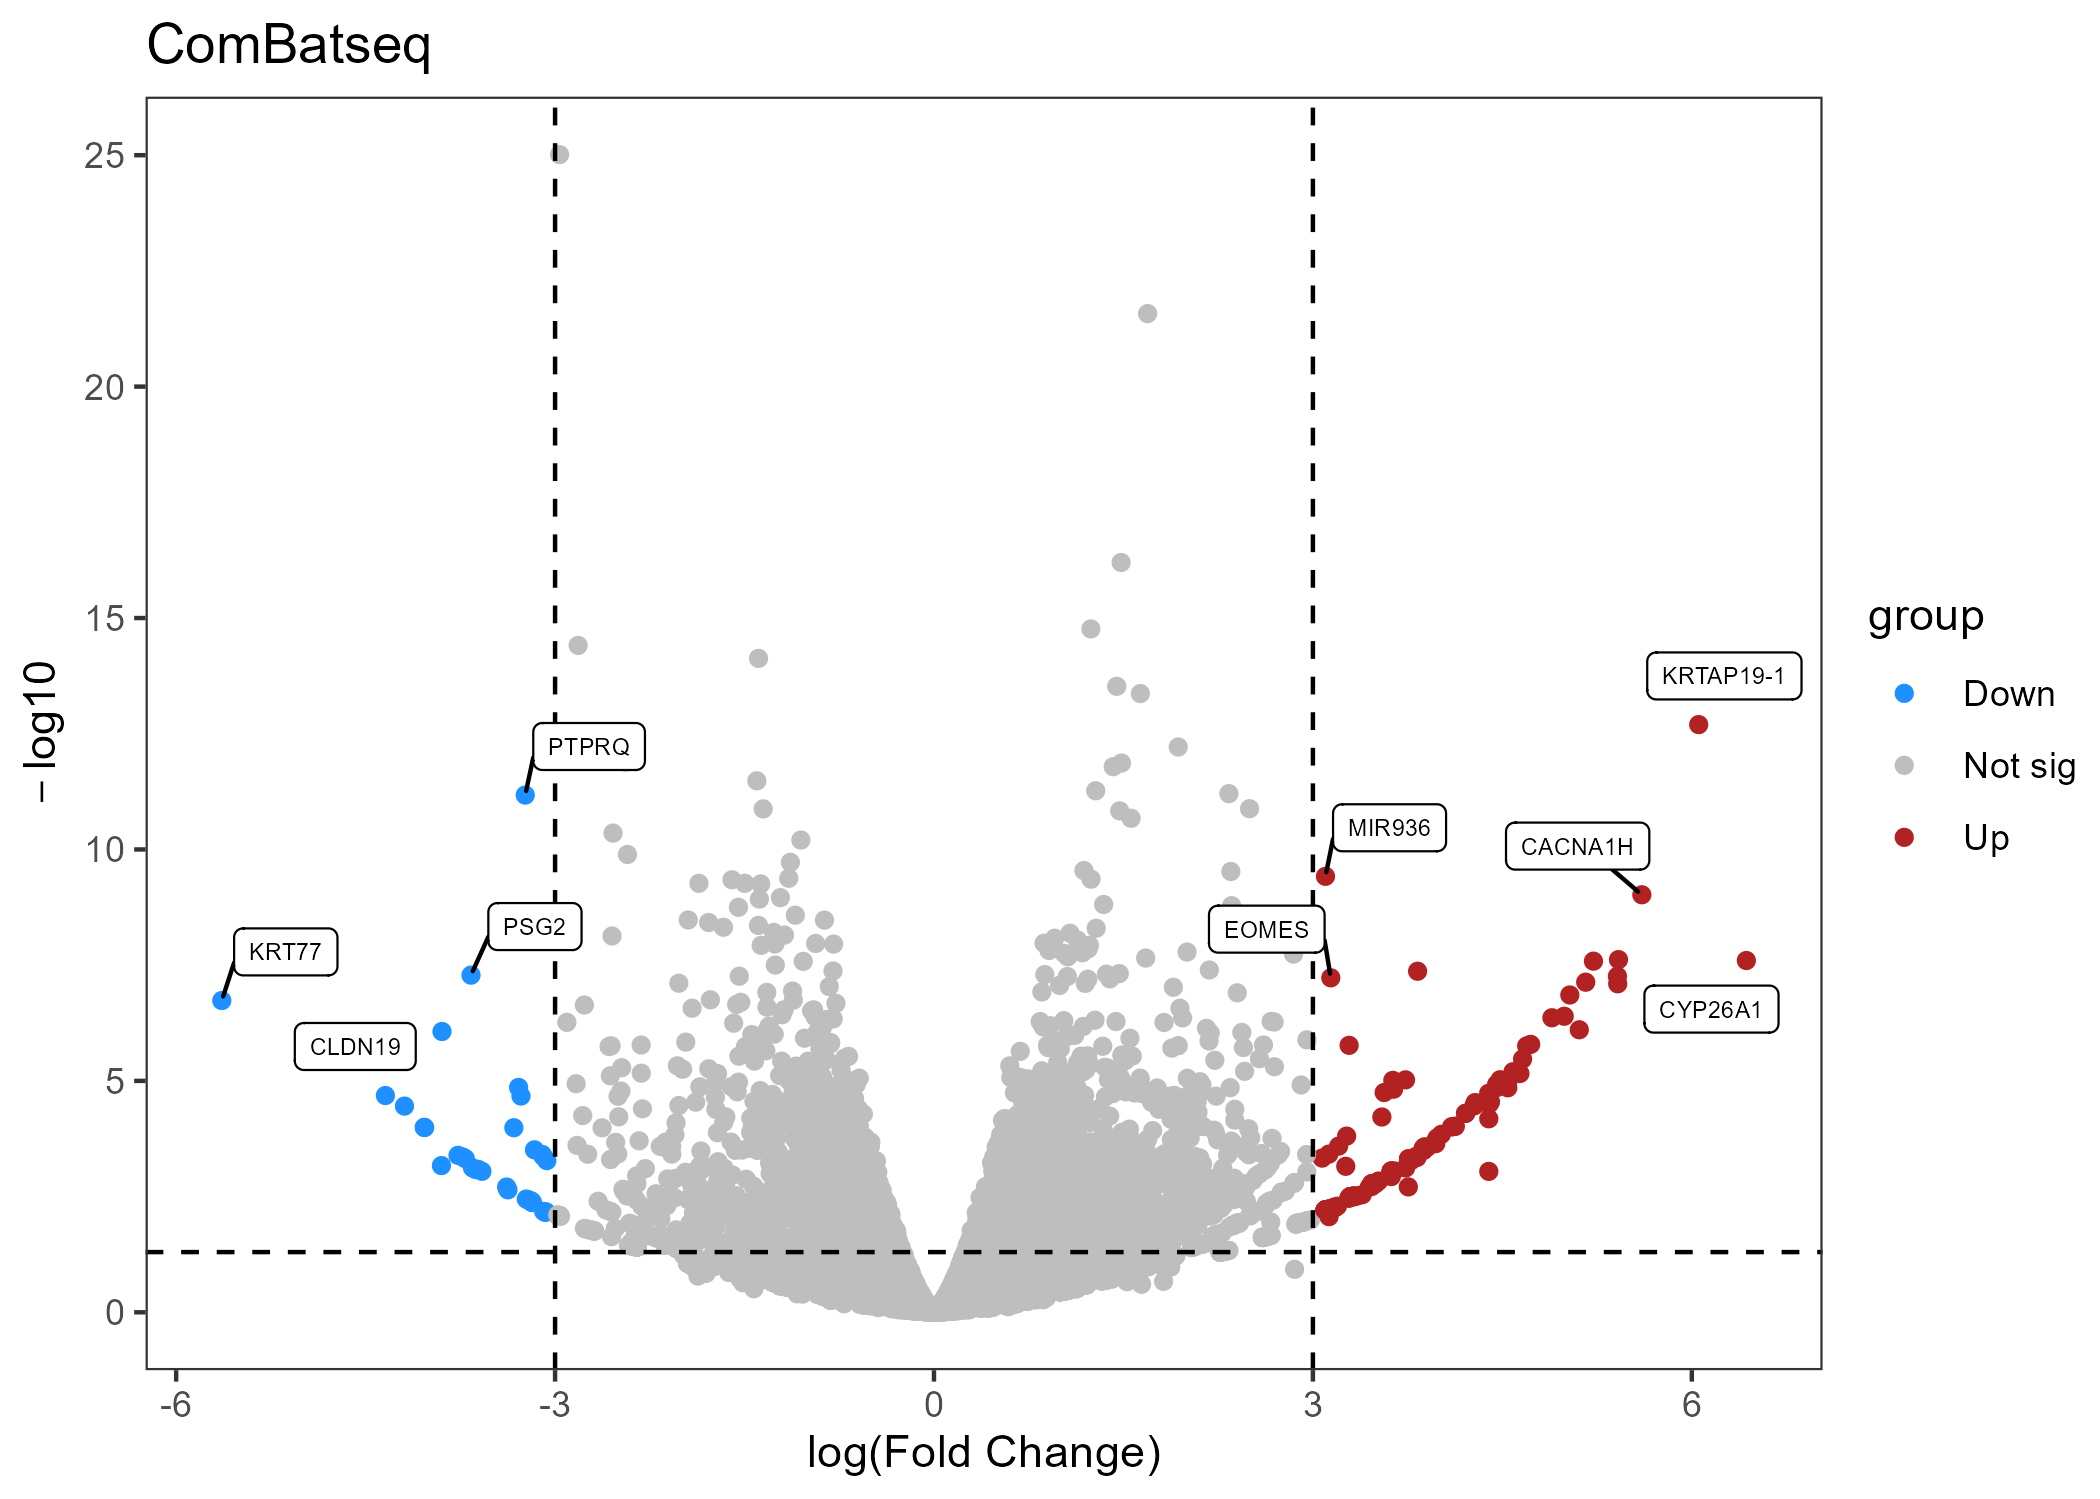
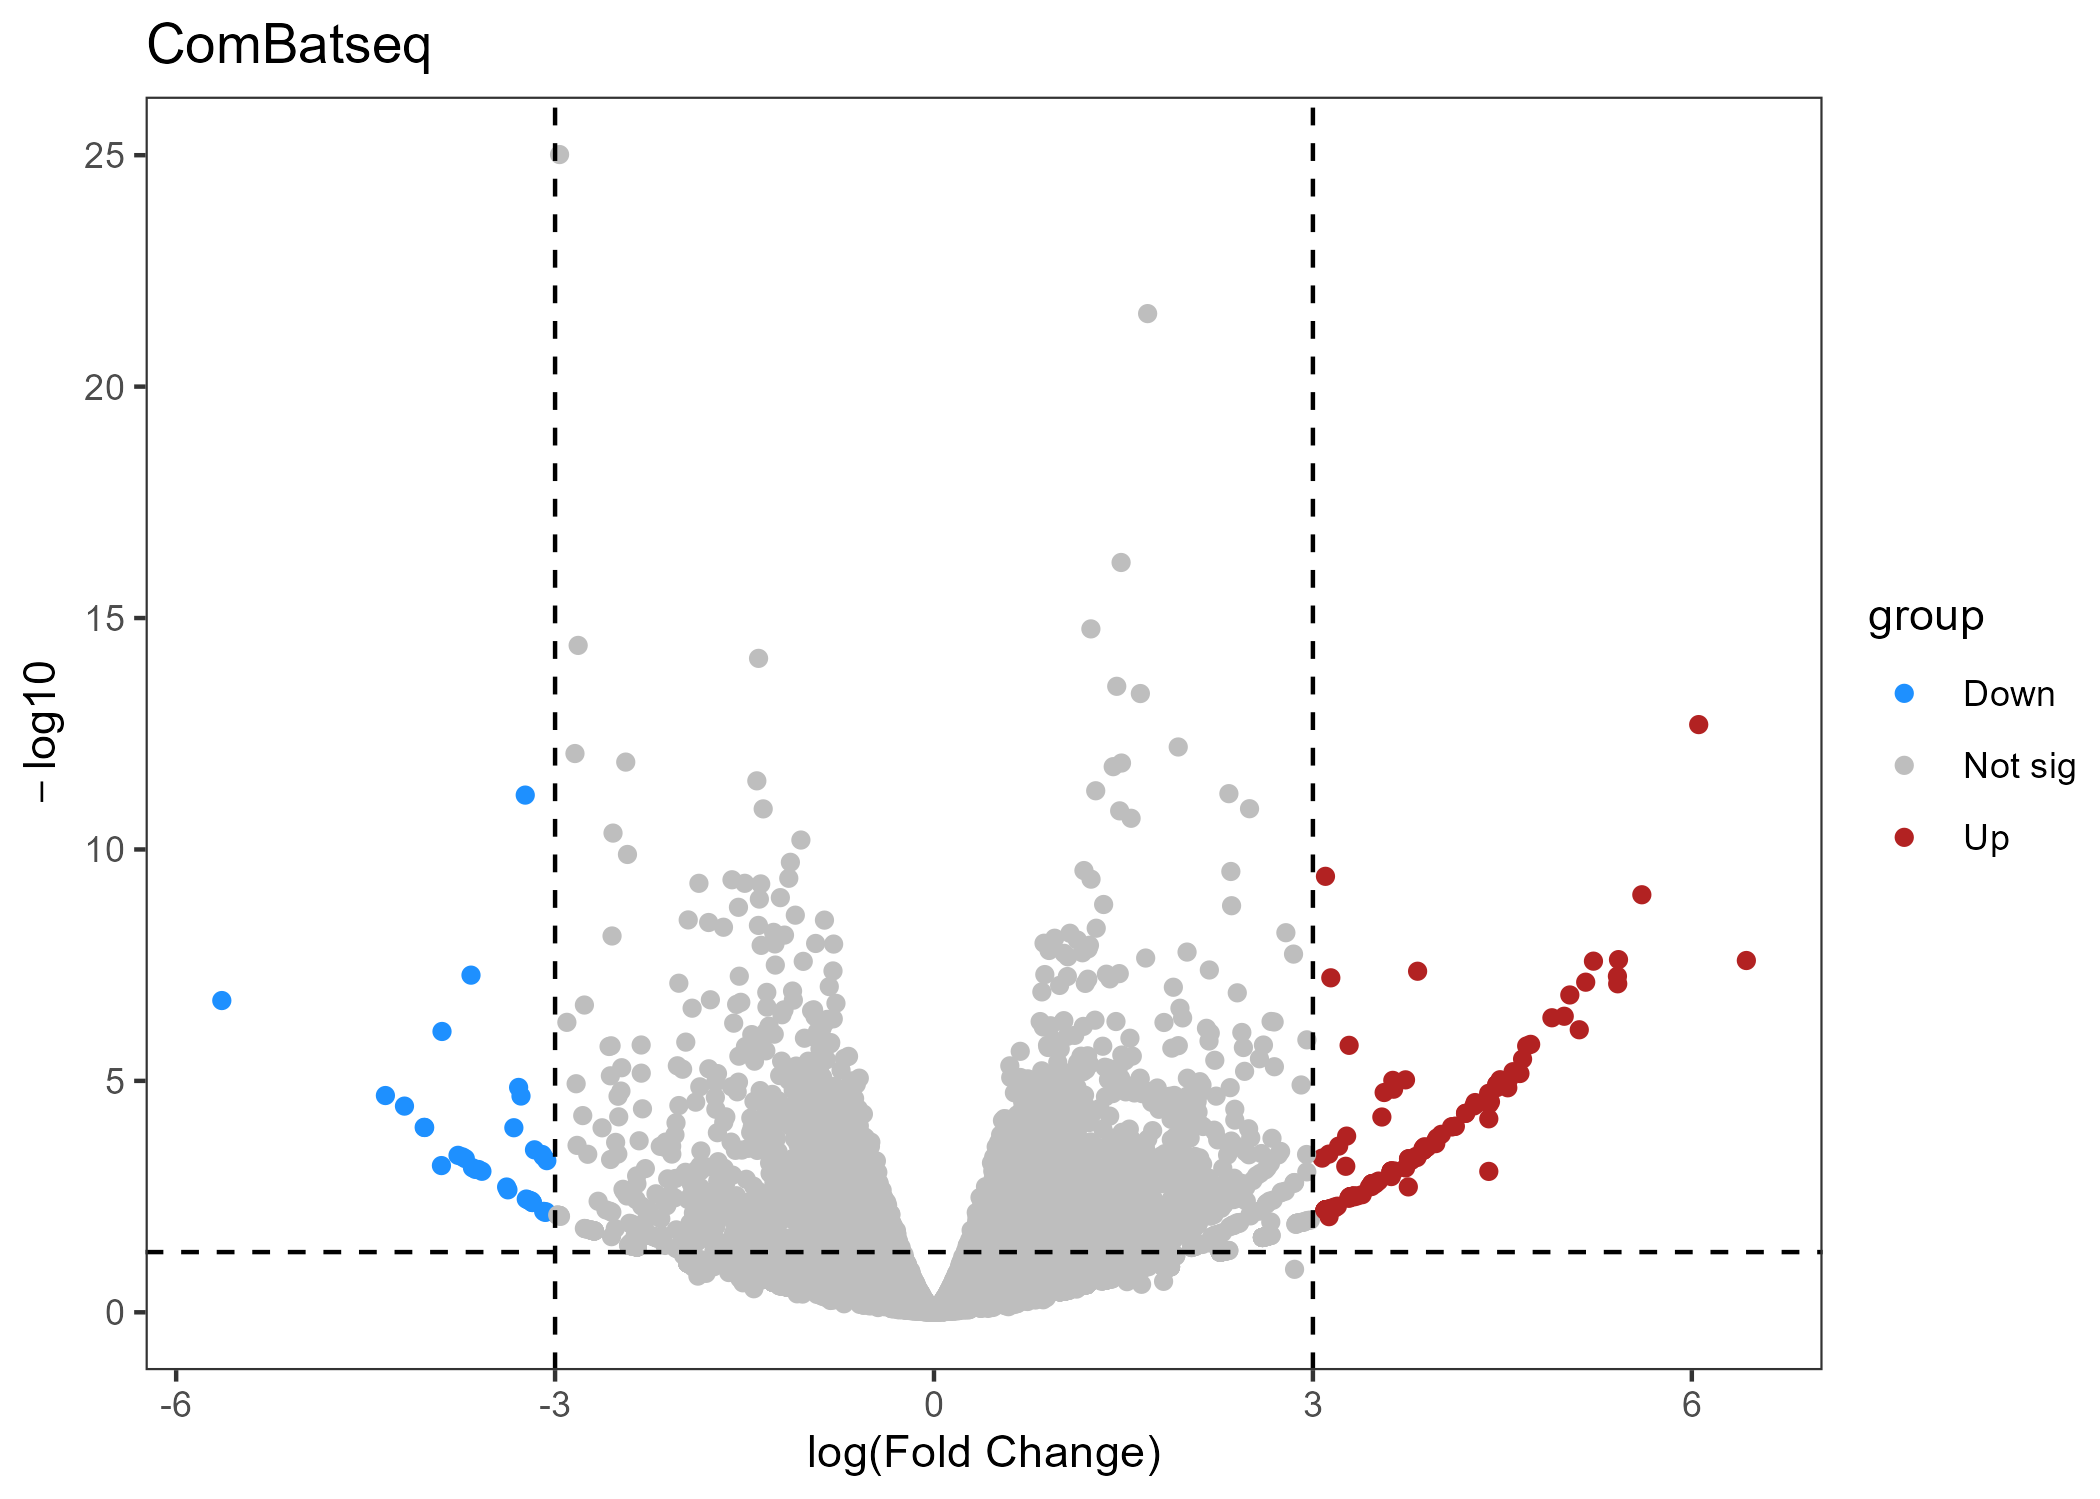
Fourth commit

diff --git a/GEO database/GEO-data-analysis.html b/GEO database/GEO-data-analysis.html
@@ -11,7 +11,7 @@
 
 <meta name="author" content="TC-tea" />
 
-<meta name="date" content="2024-05-03" />
+<meta name="date" content="2024-05-12" />
 
 <title>Final year project</title>
 
@@ -353,7 +353,7 @@ display: none;
 <h1 class="title toc-ignore"><strong>Final year project</strong></h1>
 <h3 class="subtitle"><em>GEO data analysis</em></h3>
 <h4 class="author">TC-tea</h4>
-<h4 class="date">2024-05-03</h4>
+<h4 class="date">2024-05-12</h4>
 
 </div>
 
@@ -647,10 +647,10 @@ df_ComBatseq &lt;- run_DE_analysis_with_gene_matrix(rawdata_combined_ComBatseq, 
     geom_vline(xintercept = 3, linetype = &quot;dashed&quot;) +
     geom_vline(xintercept = -3, linetype = &quot;dashed&quot;) +
     geom_hline(yintercept = -log10(0.05), linetype = &quot;dashed&quot;) +
-    geom_label_repel(data=subset(Data, group!=&quot;Not sig&quot;),
-                     aes(label=gene_name), 
-                     box.padding = unit(0.35, &quot;lines&quot;),
-                     size = 2) +
+    # geom_label_repel(data=subset(Data, group!=&quot;Not sig&quot;),
+    #                  aes(label=gene_name), 
+    #                  box.padding = unit(0.35, &quot;lines&quot;),
+    #                  size = 2) +
     labs(title = data_name, y=expression(-log10), x=&quot;log(Fold Change)&quot;) + 
     theme_test()
   ggsave(paste0(&quot;GEO_Volcano_plot(&quot;, data_name, &quot;).png&quot;), plot = volcano_plot)
@@ -758,13 +758,13 @@ generate_heatmap(df_RUVs, df_RUVs_raw, group, batch)</code></pre>
   plot &lt;- dotplot(ego, showCategory = 20, font.size = 5)
   plot &lt;- plot + theme(axis.text.y = element_text(hjust = 1))
   # Add average significance information
-  mean_pvalue &lt;- mean(ego$pvalue)
-  mean_qvalue &lt;- mean(ego$qvalue)
-  mean_apvalue &lt;- mean(ego$p.adjust)
-  summary_text &lt;- paste(&quot;Mean pvalue:&quot;, round(mean_pvalue, 4),&quot;
-                        \nMean qvalue:&quot;, round(mean_qvalue, 4),&quot;
-                        \nMean p.adjust:&quot;, round(mean_apvalue, 4), &quot;\n&quot;)
-  plot &lt;- plot + annotate(&quot;text&quot;, x = Inf, y = -Inf, label = summary_text, hjust = 1, vjust = 0)
+  # mean_pvalue &lt;- mean(ego$pvalue)
+  # mean_qvalue &lt;- mean(ego$qvalue)
+  # mean_apvalue &lt;- mean(ego$p.adjust)
+  # summary_text &lt;- paste(&quot;Mean pvalue:&quot;, round(mean_pvalue, 4),&quot;
+  #                       \nMean qvalue:&quot;, round(mean_qvalue, 4),&quot;
+  #                       \nMean p.adjust:&quot;, round(mean_apvalue, 4), &quot;\n&quot;)
+  # plot &lt;- plot + annotate(&quot;text&quot;, x = Inf, y = -Inf, label = summary_text, hjust = 1, vjust = 0)
   ggsave(paste0(&quot;GEO_GO_bubble_plot(&quot;, data_name, &quot;).png&quot;), plot = plot, width = 10, height = 6, units = &quot;in&quot;)
 }
 perform_GO_enrichment_analysis(df_raw_raw)

diff --git a/GEN database/GEN-data-analysis.html b/GEN database/GEN-data-analysis.html
@@ -11,7 +11,7 @@
 
 <meta name="author" content="TC-tea" />
 
-<meta name="date" content="2024-05-03" />
+<meta name="date" content="2024-05-12" />
 
 <title>Final year project</title>
 
@@ -353,7 +353,7 @@ display: none;
 <h1 class="title toc-ignore"><strong>Final year project</strong></h1>
 <h3 class="subtitle"><em>GEN data analysis</em></h3>
 <h4 class="author">TC-tea</h4>
-<h4 class="date">2024-05-03</h4>
+<h4 class="date">2024-05-12</h4>
 
 </div>
 
@@ -648,10 +648,10 @@ df_ComBatseq &lt;- run_DE_analysis_with_gene_matrix(rawdata_combined_ComBatseq, 
     geom_vline(xintercept = 3, linetype = &quot;dashed&quot;) +
     geom_vline(xintercept = -3, linetype = &quot;dashed&quot;) +
     geom_hline(yintercept = -log10(0.05), linetype = &quot;dashed&quot;) +
-    geom_label_repel(data=subset(Data, group!=&quot;Not sig&quot;),
-                     aes(label=gene_name), 
-                     box.padding = unit(0.35, &quot;lines&quot;),
-                     size = 2) +
+    # geom_label_repel(data=subset(Data, group!=&quot;Not sig&quot;),
+    #                  aes(label=gene_name), 
+    #                  box.padding = unit(0.35, &quot;lines&quot;),
+    #                  size = 2) +
     labs(title = data_name, y=expression(-log10), x=&quot;log(Fold Change)&quot;) + 
     theme_test()
   ggsave(paste0(&quot;GEN_Volcano_plot(&quot;, data_name, &quot;).png&quot;), plot = volcano_plot)
@@ -749,13 +749,13 @@ generate_heatmap(df_RUVs, df_RUVs_raw, group, batch)</code></pre>
   plot &lt;- plot + theme(axis.text.y = element_text(hjust = 1))
 
   # Add average significance information
-  mean_pvalue &lt;- mean(ego$pvalue)
-  mean_qvalue &lt;- mean(ego$qvalue)
-  mean_apvalue &lt;- mean(ego$p.adjust)
-  summary_text &lt;- paste(&quot;Mean pvalue:&quot;, round(mean_pvalue, 4),&quot;
-                        \nMean qvalue:&quot;, round(mean_qvalue, 4),&quot;
-                        \nMean p.adjust:&quot;, round(mean_apvalue, 4), &quot;\n&quot;)
-  plot &lt;- plot + annotate(&quot;text&quot;, x = Inf, y = -Inf, label = summary_text, hjust = 1, vjust = 0)
+  # mean_pvalue &lt;- mean(ego$pvalue)
+  # mean_qvalue &lt;- mean(ego$qvalue)
+  # mean_apvalue &lt;- mean(ego$p.adjust)
+  # summary_text &lt;- paste(&quot;Mean pvalue:&quot;, round(mean_pvalue, 4),&quot;
+  #                       \nMean qvalue:&quot;, round(mean_qvalue, 4),&quot;
+  #                       \nMean p.adjust:&quot;, round(mean_apvalue, 4), &quot;\n&quot;)
+  # plot &lt;- plot + annotate(&quot;text&quot;, x = Inf, y = -Inf, label = summary_text, hjust = 1, vjust = 0)
   ggsave(paste0(&quot;GEN_GO_bubble_plot(&quot;, data_name, &quot;).png&quot;), plot = plot, width = 10, height = 6, units = &quot;in&quot;)
 }
 perform_GO_enrichment_analysis(df_raw_raw)

diff --git a/README.md b/README.md
@@ -1,3 +1,5 @@
 # Explore the impact of the gene expression quantification pipeline on the degree of batch effects
 - `GEN database` folder is used for process the analysis of the datasets from Gene Expression Nebulas.
 - `GEO database` folder is used for process the analysis of the datasets from Gene Expression Omnibus.
+
+![](./FYP.jpg){width=60%}
